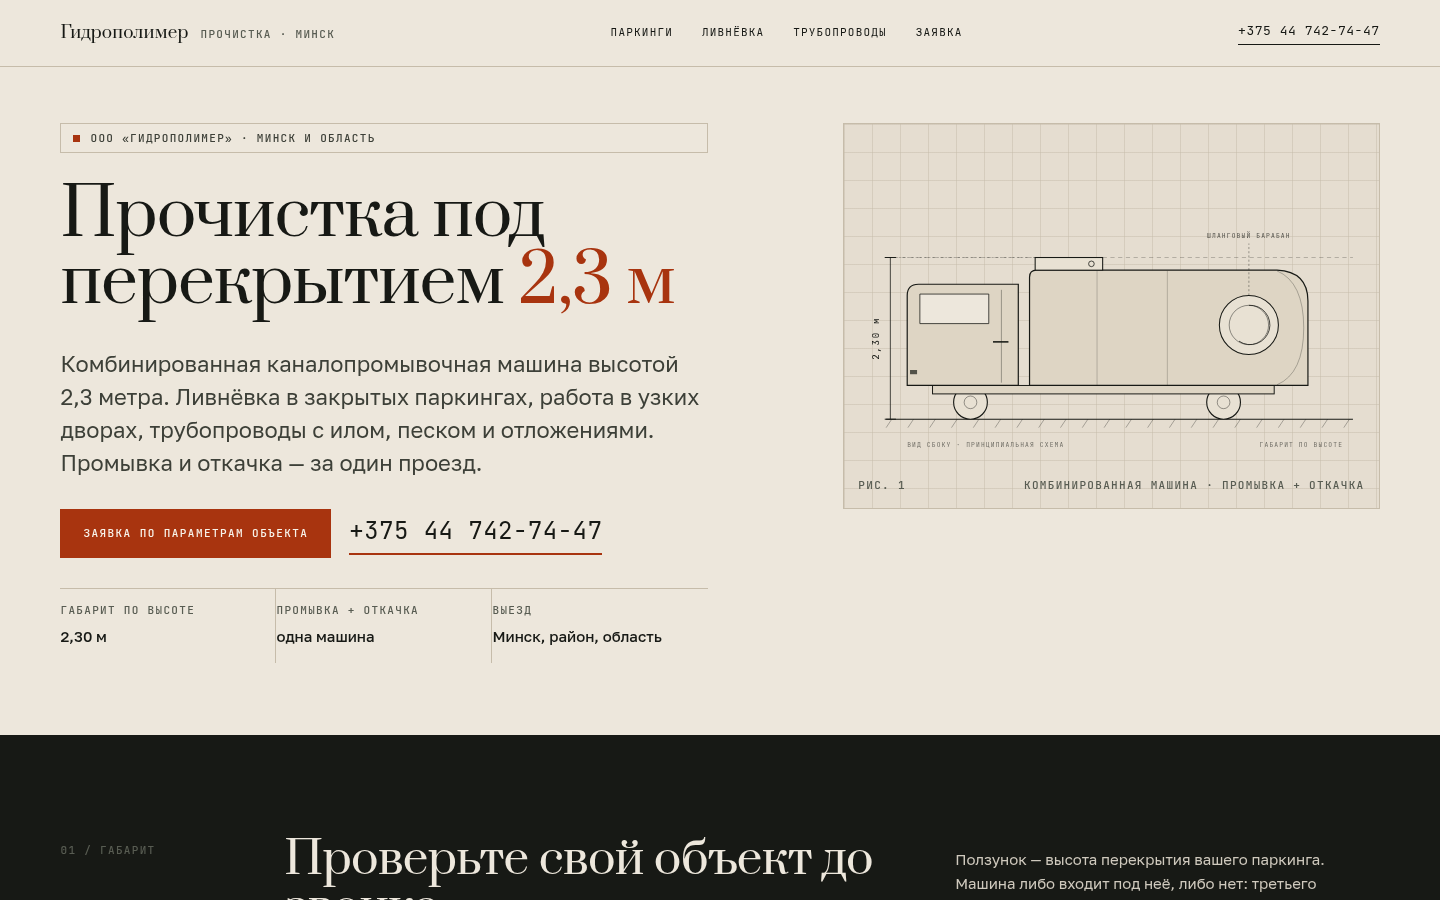
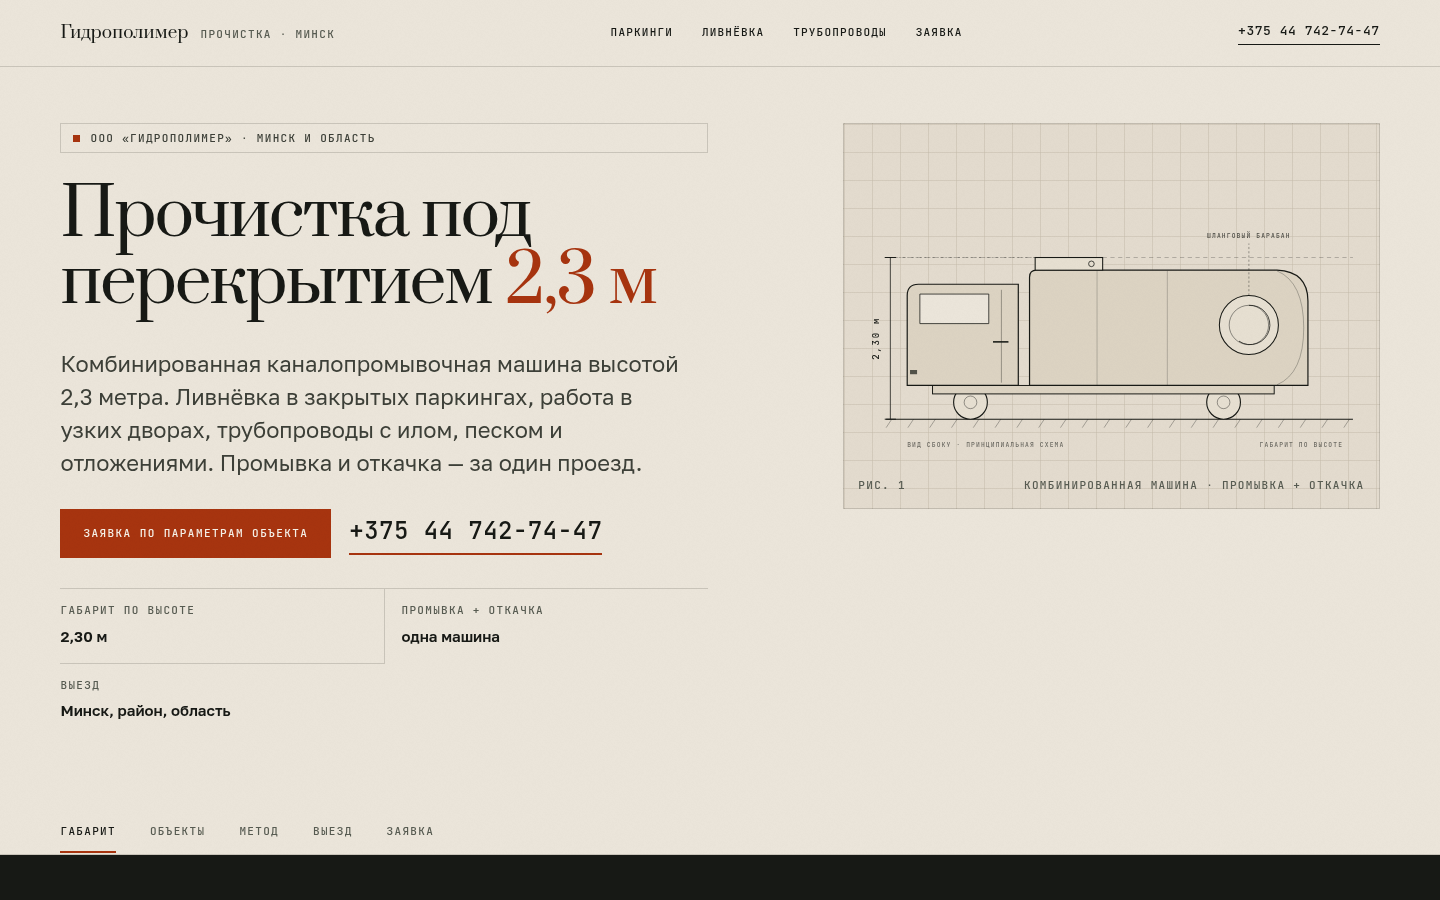
docs: бриф, скриншоты второй итерации, README

diff --git a/README.md b/README.md
@@ -31,14 +31,23 @@ GitHub Actions (`.github/workflows/deploy.yml`) собирает проект н
 
 ## Скриншоты
 
-| Десктоп 1440 | Мобильный 390 |
+| Десктоп 1440: герой | Десктоп 1440: габаритная сцена |
 | --- | --- |
-| ![desktop](screenshots/desktop-1440.png) | ![mobile](screenshots/mobile-390.png) |
+| ![desktop](screenshots/desktop-1440.png) | ![scene](screenshots/desktop-scene.png) |
+
+| Мобильный 390: герой | Мобильный 390: сцена с ползунком |
+| --- | --- |
+| ![mobile](screenshots/mobile-390.png) | ![mobile scene](screenshots/mobile-390-fit.png) |
 
 ## Что внутри
 
-- **Механика:** «габаритный тест» — ползунок высоты перекрытия, разрез паркинга и живой вердикт: проходит
-  машина или нет, с запасом в сантиметрах.
+- **Механика:** «габаритный тест» — пин-сцена на 1,7 экрана: скролл опускает перекрытие с 3,60 до 2,60 м,
+  машина 2,30 м держится до конца, типовая 3,3 м отсекается на середине. На мобильных и при
+  `prefers-reduced-motion` та же сцена управляется ползунком, без пиннинга.
+- **Дисциплина документа:** прогресс скролла в шапке, липкий указатель разделов, hairline-границы,
+  зерно 2,8%, печатная версия страницы (`@media print`).
+- **Бриф и система** (типографика, отступы, сетка, палитра, тайминги, структура с назначением блоков):
+  `docs/design-brief.md`.
 - **Схема машины** нарисована в SVG: кабина, цистерна, шланговый барабан, размерная линия 2,30 м.
 - **Заявка** собирает параметры объекта (перекрытие, диаметр трубы, тип сети) и открывает WhatsApp с готовым
   текстом; контактный телефон — прямой `tel:`-линк.
